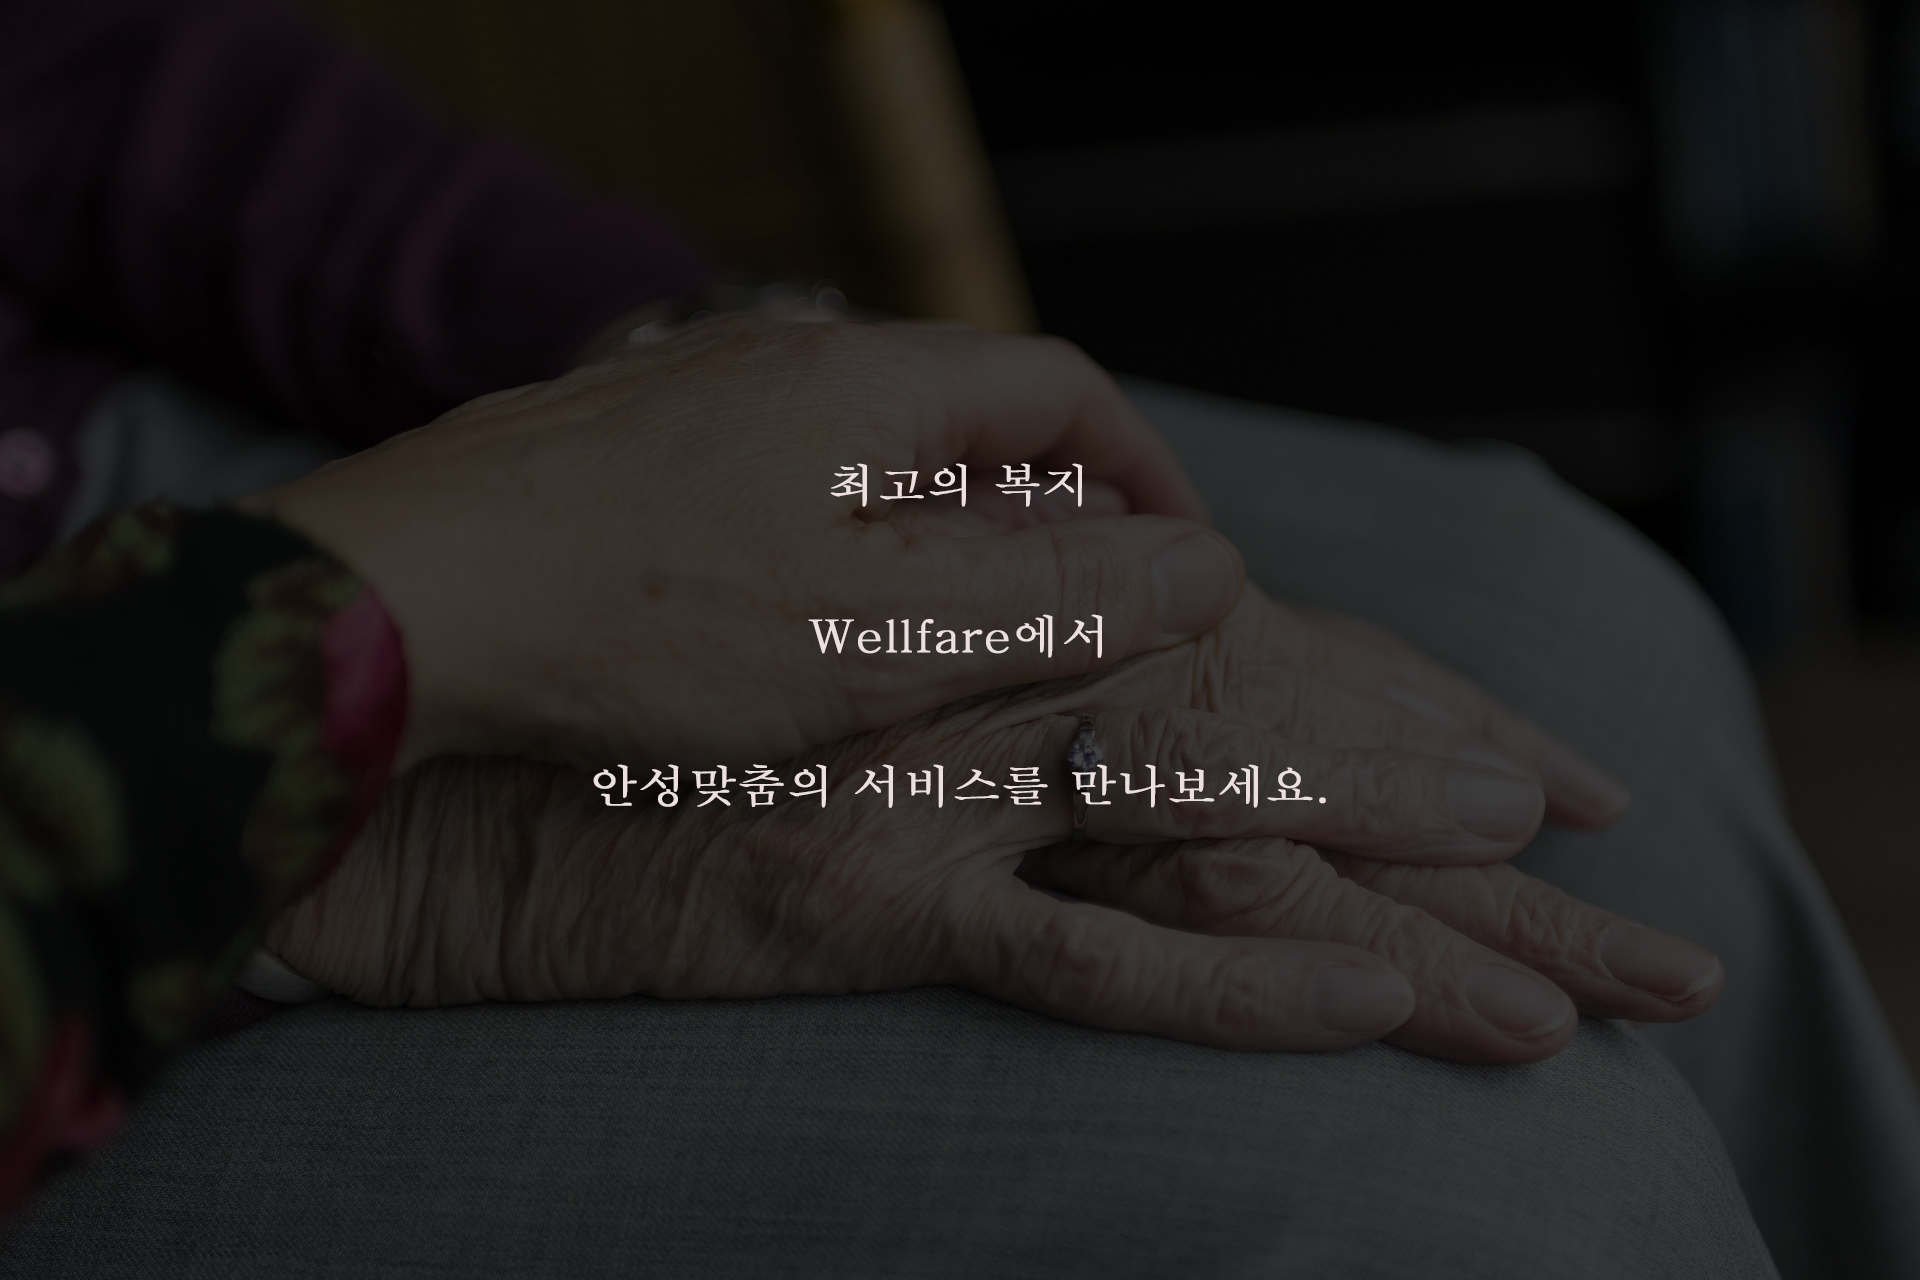
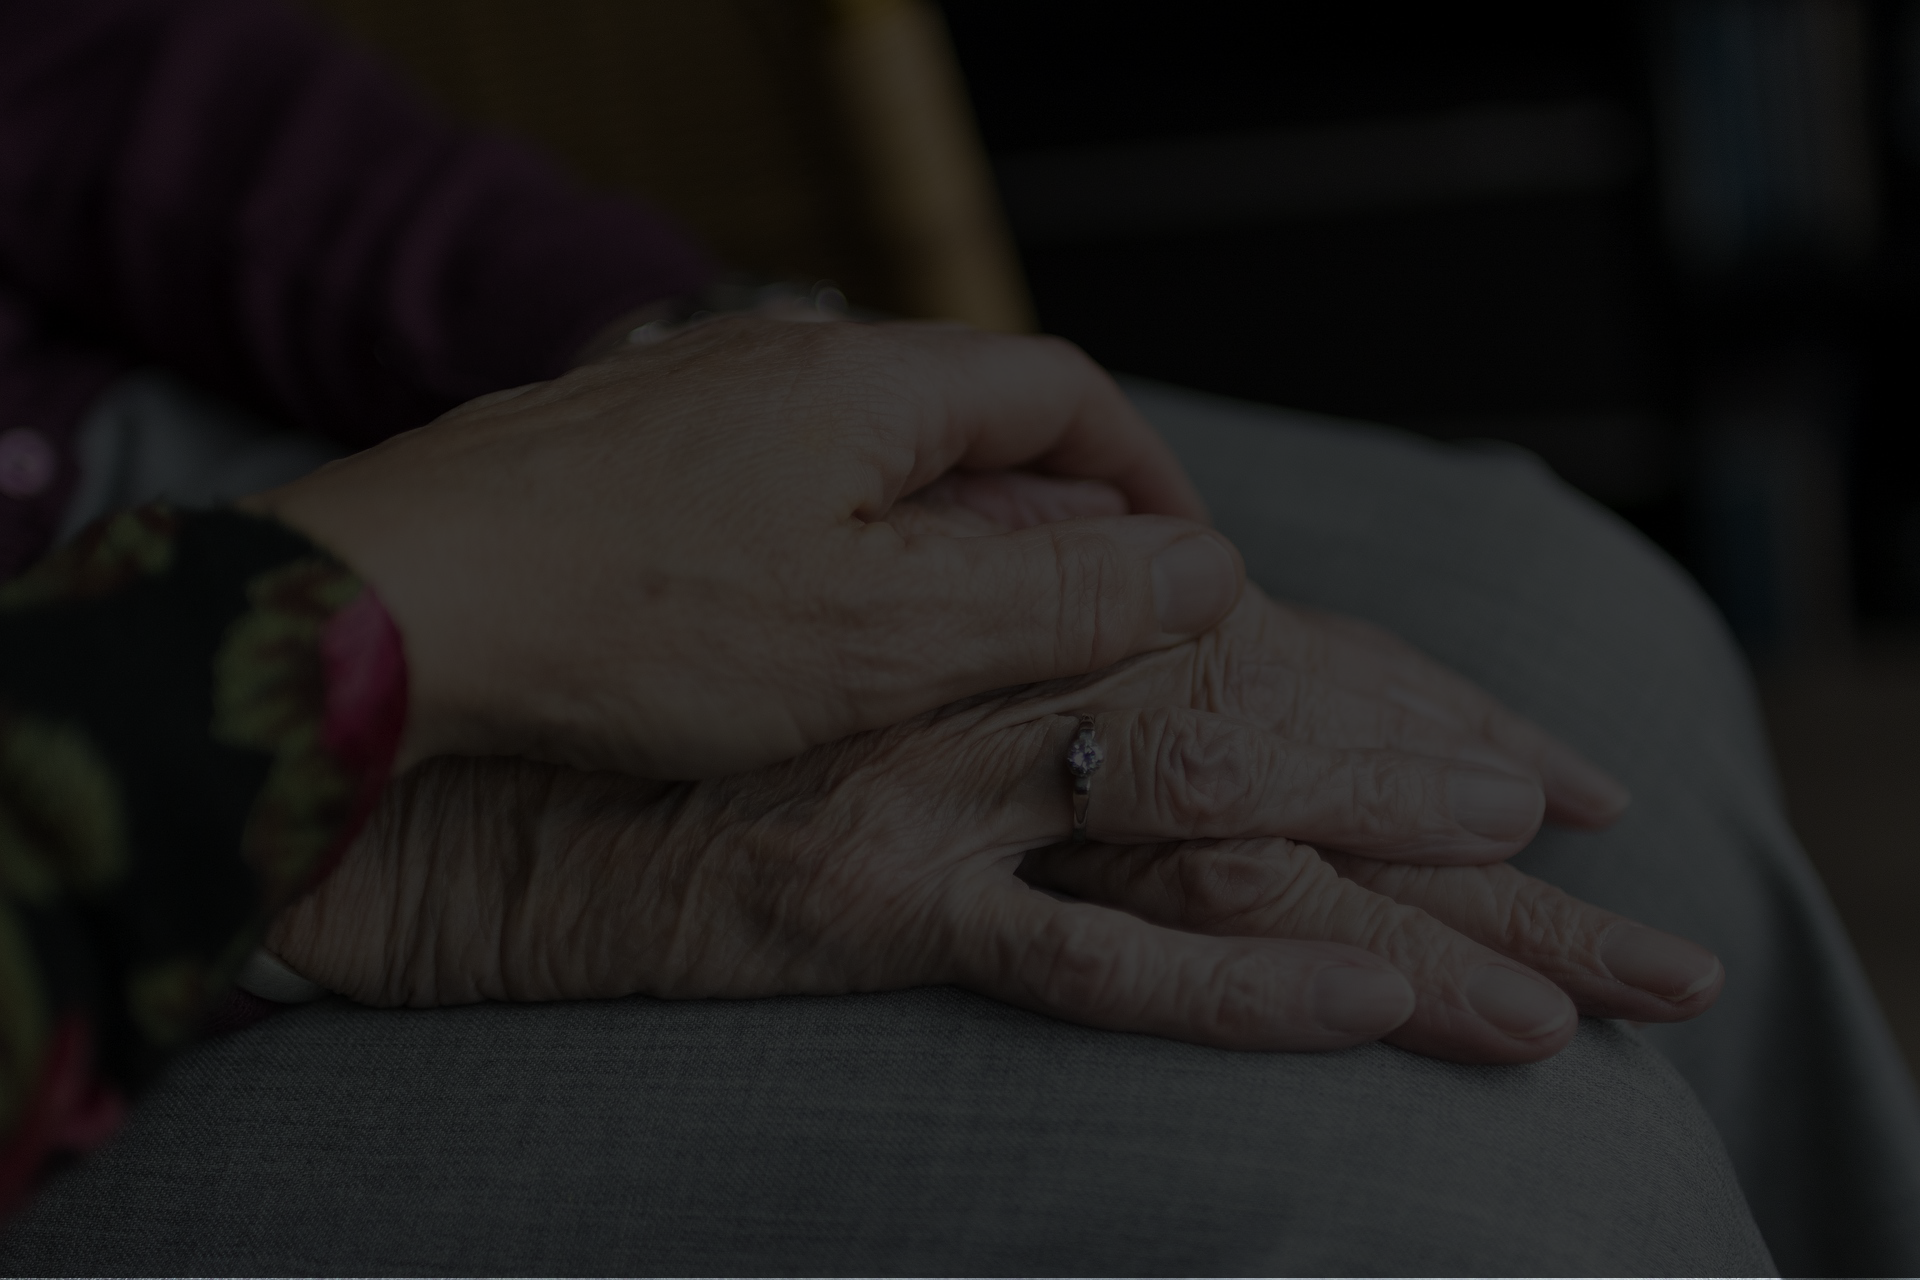
change design

Changed region(s): [[0.3125, 0.5938, 0.6875, 0.625], [0.4062, 0.4688, 0.5938, 0.5312], [0.4375, 0.3438, 0.5625, 0.4062]]

diff --git a/client/src/css/App.css b/client/src/css/App.css
@@ -6,6 +6,14 @@
   font-style: normal;
 }
 
+@font-face {
+  font-family: "Danjo-bold-Regular";
+  src: url("https://cdn.jsdelivr.net/gh/projectnoonnu/noonfonts_2307-1@1.1/Danjo-bold-Regular.woff2")
+    format("woff2");
+  font-weight: normal;
+  font-style: normal;
+}
+
 :root {
   /* Color */
   --white-color: #f5f5f5;
@@ -35,6 +43,12 @@
   --medium-padding: 36px;
   --big-padding: 40px;
   --bigger-padding: 48px;
+
+  --navi_li-zindex: 1;
+  --homeBannerShadowBox-zindex: 2;
+  --homeBannerTextContainer-zindex: 3;
+  --header-zindex: 4;
+  --pagination-zindex: 5;
 }
 
 * {
@@ -50,8 +64,8 @@ a:visited,
 a:hover,
 a:focus,
 a:active {
-  color: var(--black-color);
   text-decoration: none;
+  color: var(--black-color);
 }
 
 ul,
@@ -84,6 +98,7 @@ body {
   justify-content: center;
   align-items: center;
   overflow-x: hidden;
+  overflow-y: scroll;
   background-color: var(--white-color);
 }
 
@@ -102,13 +117,26 @@ body {
   display: none;
 }
 
+@keyframes Fadein {
+  0% {
+    opacity: 0;
+  }
+
+  100% {
+    opacity: 1;
+  }
+}
+
 /* header */
 .header {
-  height: 130px;
+  align-items: center;
   display: flex;
   flex-direction: column;
-  align-items: center;
+  height: 130px;
   justify-content: center;
+  position: fixed;
+  width: 100%;
+  z-index: var(--header-zindex);
 }
 
 nav {
@@ -187,7 +215,7 @@ nav ul li {
 
 .navi_li {
   position: relative;
-  z-index: 1;
+  z-index: var(--navi_li-zindex);
 }
 
 @media (hover: hover) {
@@ -231,9 +259,63 @@ nav ul li {
   width: 100%;
 }
 
+.homeBannerShadowBox {
+  position: absolute;
+  top: 0px;
+  left: 0;
+  width: 100%;
+  height: 100vh;
+  background: linear-gradient(
+    180deg,
+    var(--white-color) 0%,
+    var(--white-color) 20px,
+    rgba(255, 255, 255, 0) 100%
+  );
+  z-index: var(--homeBannerShadowBox-zindex);
+}
+
+.homeBannerTextContainer {
+  position: absolute;
+  top: 0px;
+  left: 0px;
+  width: 100%;
+  height: 100%;
+  -webkit-box-align: center;
+  align-items: center;
+  display: flex;
+  flex-direction: column;
+  -webkit-box-pack: justify;
+  justify-content: space-between;
+  animation: 0.5s ease-in-out 0s 1 normal forwards running Fadein;
+  z-index: var(--homeBannerTextContainer-zindex);
+}
+
+.homeBannerTextBox {
+  margin-top: 225px;
+  -webkit-box-align: center;
+  align-items: center;
+  display: flex;
+  flex-direction: column;
+  -webkit-box-pack: start;
+  justify-content: flex-start;
+}
+
+.homeBannerText {
+  color: var(--black-color);
+  font-size: calc(var(--font-large) * 1.2);
+  line-height: 2.5;
+  text-align: center;
+  width: 100%;
+  font-family: "Danjo-bold-Regular";
+  letter-spacing: 3px;
+  background: linear-gradient(180deg, var(--white-color), var(--green-color));
+  color: transparent;
+  -webkit-background-clip: text;
+}
+
 .homeBannerImageBox {
   width: 100%;
-  height: 1000px;
+  height: 100vh;
 }
 
 .homeBannerImage {
@@ -294,13 +376,14 @@ nav ul li {
 
 /* search */
 .searchFilterBoxContainer {
-  width: 100%;
-  height: 600px;
+  align-items: center;
   display: flex;
   flex-direction: column;
-  align-items: center;
+  height: 860px;
   justify-content: space-between;
-  margin-bottom: calc(var(--big-padding) * 2);
+  padding-bottom: 100px;
+  padding-top: 160px;
+  width: 100%;
 }
 
 .searchBoxContainer {
@@ -418,7 +501,7 @@ nav ul li {
   justify-content: center;
   margin: var(--big-padding) auto;
   font-size: var(--font-smaller);
-  z-index: 10000;
+  z-index: var(--pagination-zindex);
 }
 
 ul.pagination li {

diff --git a/client/src/components/home/home_banner.js b/client/src/components/home/home_banner.js
@@ -11,15 +11,8 @@ import banner2 from "../../../src/image/banner/banner2.png";
 
 function Home_banner() {
   const StyledSlider = styled(Slider)`
-    .slick-slide > div {
-      margin: 0 10px;
-    }
-    .slick-list {
-      margin: 0 -10px;
-    }
-
     .slick-dots {
-      bottom: -35px;
+      bottom: -45px;
     }
   `;
 
@@ -38,6 +31,15 @@ function Home_banner() {
   return (
     <div className="homeBannerContainer">
       <div className="homeBannerBox">
+        <div className="homeBannerShadowBox"></div>
+        <div className="homeBannerTextContainer">
+          <div className="homeBannerTextBox">
+            <h1 className="homeBannerText">
+              최고의 복지 <br /> Wellfare에서 <br /> 안성맞춤의 서비스를
+              만나보세요.
+            </h1>
+          </div>
+        </div>
         <StyledSlider {...settings}>
           <div className="homeBannerImageBox">
             <img className="homeBannerImage" src={banner0} alt="0번째 배너" />
